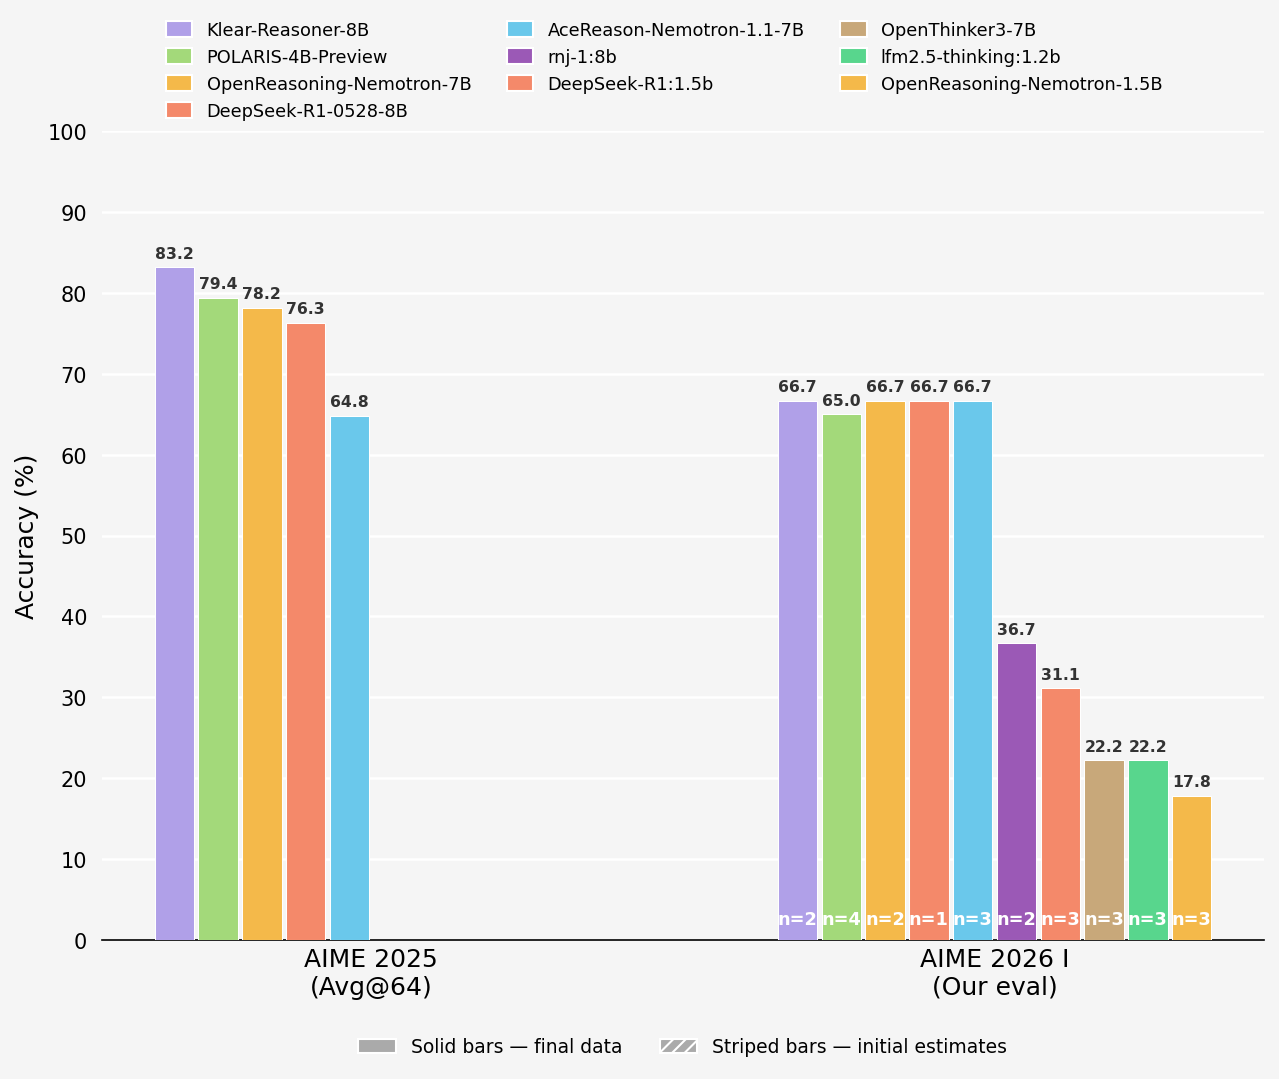
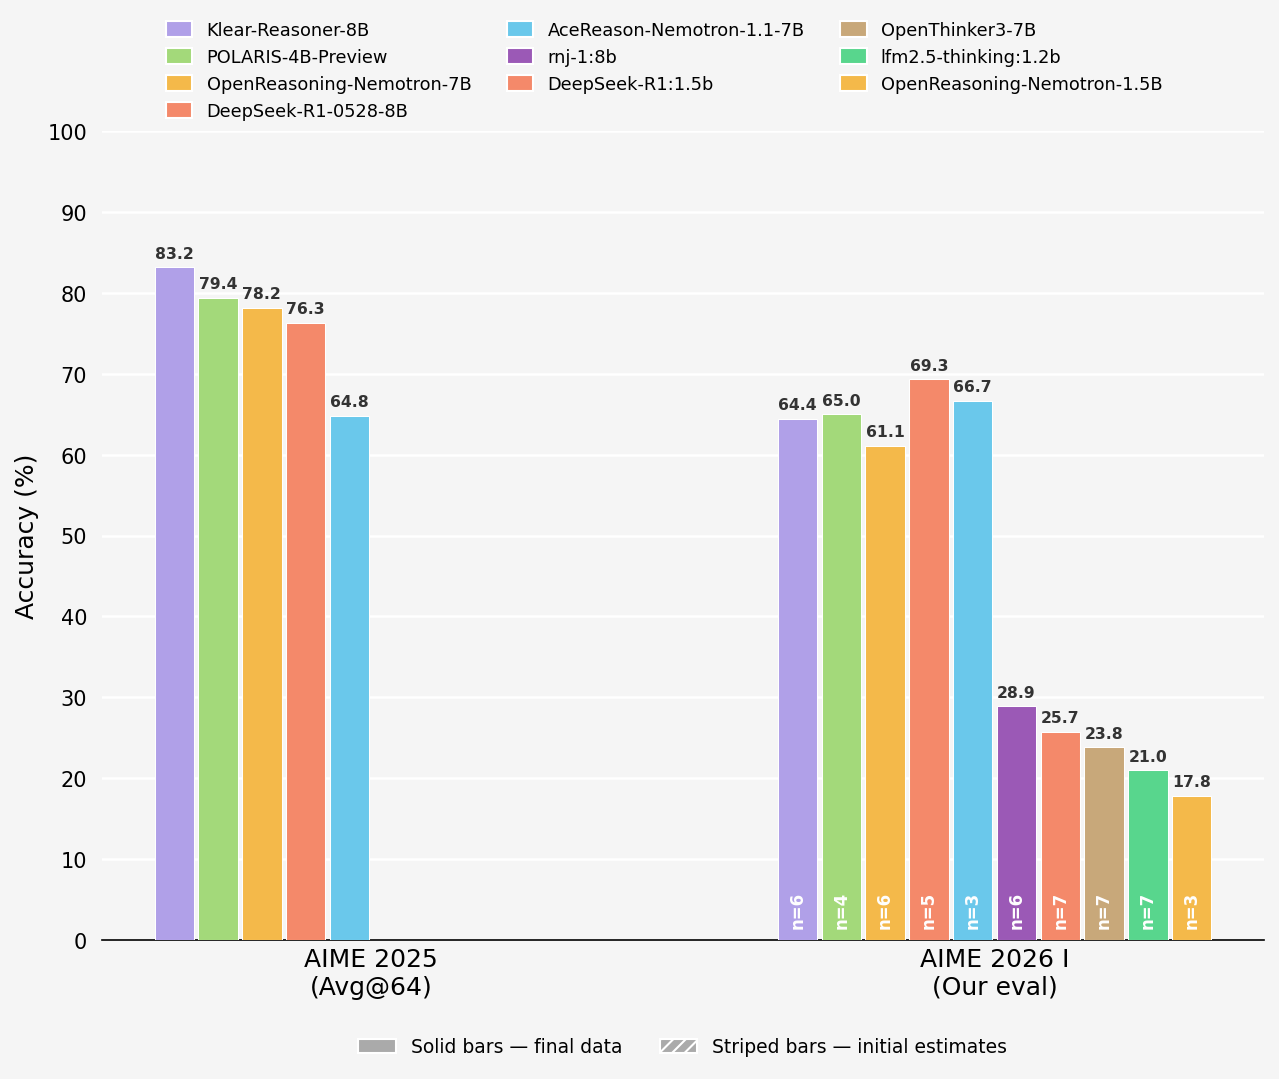
Refresh charts and README with final results; fix chart label overlaps

diff --git a/src/plot_pareto.py b/src/plot_pareto.py
@@ -34,8 +34,11 @@ MODEL_DISPLAY = {
     "ollama/lucifers/Polaris-4B-Preview.Q8_0:latest": "POLARIS-4B-Preview",
     "ollama/nvidia/AceReason-Nemotron-1.1-7B":        "AceReason-Nemotron-1.1-7B",
     "ollama/nvidia/OpenReasoning-Nemotron-1.5B":      "OpenReasoning-Nemotron-1.5B",
+    "ollama/nvidia/OpenReasoning-Nemotron-7B":        "OpenReasoning-Nemotron-7B",
     "ollama/open-thoughts/OpenThinker3-7B":           "OpenThinker3-7B",
     "ollama/deepseek-r1:1.5b":                        "deepseek-r1:1.5b",
+    "ollama/deepseek-r1:8b-0528-qwen3-q4_K_M":       "DeepSeek-R1-0528-8B",
+    "ollama/Kwai-Klear/Klear-Reasoner-8B":            "Klear-Reasoner-8B",
     "ollama/rnj-1:8b":                                "rnj-1:8b",
     "ollama/lfm2.5-thinking:1.2b":                    "lfm2.5-thinking:1.2b",
 }
@@ -44,8 +47,11 @@ MODEL_COLOURS = {
     "POLARIS-4B-Preview":             "#A3D97A",
     "AceReason-Nemotron-1.1-7B":      "#6AC8EB",
     "OpenReasoning-Nemotron-1.5B":    "#F4B94A",
+    "OpenReasoning-Nemotron-7B":      "#F4B94A",
     "OpenThinker3-7B":                "#C8A87A",
     "deepseek-r1:1.5b":               "#F4896A",
+    "DeepSeek-R1-0528-8B":            "#F4896A",
+    "Klear-Reasoner-8B":              "#B0A0E8",
     "rnj-1:8b":                       "#9B59B6",
     "lfm2.5-thinking:1.2b":           "#58D68D",
 }
@@ -123,6 +129,16 @@ def plot(log_dir: Path, out: Path) -> None:
             linestyle="--", zorder=2, label="Pareto frontier")
     ax.fill_between(fx, fy, step="post", alpha=0.08, color="#E74C3C", zorder=1)
 
+    # Per-model label placement overrides for crowded regions of the chart.
+    # Keys are display names; values override (dx_mult, dy, ha, va).
+    LABEL_PLACEMENT = {
+        "DeepSeek-R1-0528-8B":         {"dy": 1.6},
+        "AceReason-Nemotron-1.1-7B":   {"dx_mult": -0.03, "dy": 1.6, "ha": "right"},
+        "Klear-Reasoner-8B":           {"dy": -2.0, "va": "top"},
+        "OpenReasoning-Nemotron-7B":   {"dx_mult": 0.02, "dy": -2.2, "va": "top"},
+        "OpenThinker3-7B":             {"dx_mult": 0.02, "dy": -2.2, "va": "top"},
+    }
+
     # Scatter all models
     frontier_set = set(frontier_pts)
     for name, params, acc in sorted(models, key=lambda x: x[1]):
@@ -135,16 +151,18 @@ def plot(log_dir: Path, out: Path) -> None:
                    linewidths=1.5 if on_frontier else 0.5,
                    zorder=5)
 
-        # Label — nudge to avoid overlap
-        x_off = params * 0.04
-        y_off = 1.2
+        # Label — per-model placement, with a default nudge to the upper right
+        placement = LABEL_PLACEMENT.get(name, {})
+        x_off = params * placement.get("dx_mult", 0.04)
+        y_off = placement.get("dy", 1.2)
         ax.annotate(
             name,
             (params, acc),
             xytext=(params + x_off, acc + y_off),
             fontsize=8,
             color="#222",
-            va="bottom",
+            ha=placement.get("ha", "left"),
+            va=placement.get("va", "bottom"),
             path_effects=[pe.withStroke(linewidth=2, foreground="#F5F5F5")],
         )
 

diff --git a/src/plot_comparison.py b/src/plot_comparison.py
@@ -31,9 +31,12 @@ AIME_2025 = {
 
 # ── Model name mapping: eval log model string → display name ──────────────────
 MODEL_DISPLAY = {
+    "ollama/Kwai-Klear/Klear-Reasoner-8B":            "Klear-Reasoner-8B",
+    "ollama/deepseek-r1:8b-0528-qwen3-q4_K_M":       "DeepSeek-R1-0528-8B",
     "ollama/lucifers/Polaris-4B-Preview.Q8_0:latest": "POLARIS-4B-Preview",
     "ollama/nvidia/AceReason-Nemotron-1.1-7B":        "AceReason-Nemotron-1.1-7B",
     "ollama/nvidia/OpenReasoning-Nemotron-1.5B":      "OpenReasoning-Nemotron-1.5B",
+    "ollama/nvidia/OpenReasoning-Nemotron-7B":        "OpenReasoning-Nemotron-7B",
     "ollama/open-thoughts/OpenThinker3-7B":           "OpenThinker3-7B",
     "ollama/deepseek-r1:1.5b":                        "DeepSeek-R1:1.5b",
     "ollama/rnj-1:8b":                                "rnj-1:8b",
@@ -66,8 +69,8 @@ ESTIMATE_2026 = {
 ESTIMATE_HATCH = "////"
 
 
-def load_2026(log_dir: Path) -> dict[str, float]:
-    """Return {display_name: mean_score_%} from successful eval logs."""
+def load_2026(log_dir: Path) -> tuple[dict[str, float], dict[str, int]]:
+    """Return ({display_name: mean_score_%}, {display_name: n_runs}) from successful eval logs."""
     runs: dict[str, list[float]] = defaultdict(list)
     for path in sorted(log_dir.glob("*.eval")):
         try:
@@ -87,11 +90,13 @@ def load_2026(log_dir: Path) -> dict[str, float]:
             runs[display].append(correct / len(samples) * 100)
         except Exception:
             continue
-    return {name: sum(scores) / len(scores) for name, scores in runs.items()}
+    means = {name: sum(scores) / len(scores) for name, scores in runs.items()}
+    n_runs = {name: len(scores) for name, scores in runs.items()}
+    return means, n_runs
 
 
 def plot(log_dir: Path, out: Path) -> None:
-    aime_2026 = load_2026(log_dir)
+    aime_2026, run_counts = load_2026(log_dir)
 
     # Merge measured 2026 results with estimates for unmeasured models
     aime_2026_full = {**ESTIMATE_2026, **aime_2026}  # measured values override estimates
@@ -147,6 +152,18 @@ def plot(log_dir: Path, out: Path) -> None:
                 fontsize=7.5, fontweight="bold",
                 color="#333333",
             )
+            # Show run count at the bottom of 2026 bars (measured runs only).
+            # Rotated 90° so adjacent labels don't collide at this bar width.
+            if gi == 1 and model in run_counts:
+                n = run_counts[model]
+                ax.text(
+                    x, 1.5,
+                    f"n={n}",
+                    ha="center", va="bottom",
+                    rotation=90,
+                    fontsize=8, fontweight="bold", color="white",
+                    zorder=4,
+                )
 
     # X-axis group labels — no ticks
     ax.set_xticks(group_centers)

diff --git a/README.md b/README.md
@@ -16,30 +16,38 @@ Our results are consistent with, and in several cases directly verify, the bench
 
 | Model | Params | Runs | Mean score | Accuracy |
 |---|---|---|---|---|
+| DeepSeek-R1-0528-8B | 8B | 5 | 10.4 / 15 | **69.3%** |
 | AceReason-Nemotron-1.1-7B | 7B | 3 | 10.0 / 15 | **66.7%** |
 | POLARIS-4B-Preview | 4B | 4 | 9.7 / 15 | **65.0%** |
-| rnj-1:8b | 8B | 2 | 5.5 / 15 | 36.7% |
-| DeepSeek-R1:1.5b | 1.5B | 3 | 4.7 / 15 | 31.1% |
-| lfm2.5-thinking:1.2b | 1.2B | 3 | 3.3 / 15 | 22.2% |
-| OpenThinker3-7B | 7B | 3 | 3.3 / 15 | 22.2% |
+| Klear-Reasoner-8B | 8B | 6 | 9.7 / 15 | 64.4% |
+| OpenReasoning-Nemotron-7B | 7B | 6 | 9.2 / 15 | 61.1% |
+| rnj-1:8b | 8B | 6 | 4.3 / 15 | 28.9% |
+| DeepSeek-R1:1.5b | 1.5B | 7 | 3.9 / 15 | 25.7% |
+| OpenThinker3-7B | 7B | 7 | 3.6 / 15 | 23.8% |
+| lfm2.5-thinking:1.2b | 1.2B | 7 | 3.2 / 15 | 21.0% |
 | OpenReasoning-Nemotron-1.5B | 1.5B | 3 | 2.7 / 15 | 17.8% |
 
-Scores are averaged across multiple independent runs (single sample per problem per run). Evaluations for Klear-Reasoner-8B, OpenReasoning-Nemotron-7B, and DeepSeek-R1-0528-8B are in progress.
+Scores are averaged across multiple independent runs (single sample per problem per run).
 
 ### Comparison with published AIME 2025 results
 
-The chart below compares published AIME 2025 performance (Avg@64, from the Klear-Reasoner paper [[1]](#references)) against our independently measured AIME 2026 I scores. Striped bars are placeholders pending evaluation.
+The chart below compares published AIME 2025 performance (Avg@64, from the Klear-Reasoner paper [[1]](#references)) against our independently measured AIME 2026 I scores.
 
 ![AIME 2025 vs 2026 I](results/aime_comparison.png)
 
-The two models present in both datasets validate well:
+The five models present in both datasets validate well:
 
-- **POLARIS-4B-Preview**: 79.4% on AIME 2025 (Avg@64) → 65.0% on AIME 2026 I. A modest drop consistent with the 2026 exam being unseen.
+- **DeepSeek-R1-0528-8B**: 76.3% on AIME 2025 (Avg@64) → 69.3% on AIME 2026 I — the strongest result in our evaluation.
 - **AceReason-Nemotron-1.1-7B**: 64.8% on AIME 2025 → 66.7% on AIME 2026 I. Remarkably consistent across exam years.
+- **POLARIS-4B-Preview**: 79.4% on AIME 2025 → 65.0% on AIME 2026 I. A modest drop consistent with the 2026 exam being unseen.
+- **Klear-Reasoner-8B**: 83.2% on AIME 2025 → 64.4% on AIME 2026 I.
+- **OpenReasoning-Nemotron-7B**: 78.2% on AIME 2025 → 61.1% on AIME 2026 I.
+
+The larger drops for Klear-Reasoner-8B and OpenReasoning-Nemotron-7B are consistent with the 2026 exam being unseen, single-sample variance (see the comparability note below), and Q4_K_M quantization on locally run models.
 
 ### Pareto frontier: accuracy vs. model size
 
-POLARIS-4B-Preview is the standout efficiency result — near-top accuracy at half the parameter count of the 7–8B models, making it Pareto-dominant over every larger model tested.
+DeepSeek-R1-0528-8B posts the top raw accuracy (69.3%), while POLARIS-4B-Preview is the standout efficiency result — 65.0% at roughly half the parameter count of the 7–8B models, sitting on the Pareto frontier alongside it.
 
 ![Pareto frontier](results/pareto.png)
 
